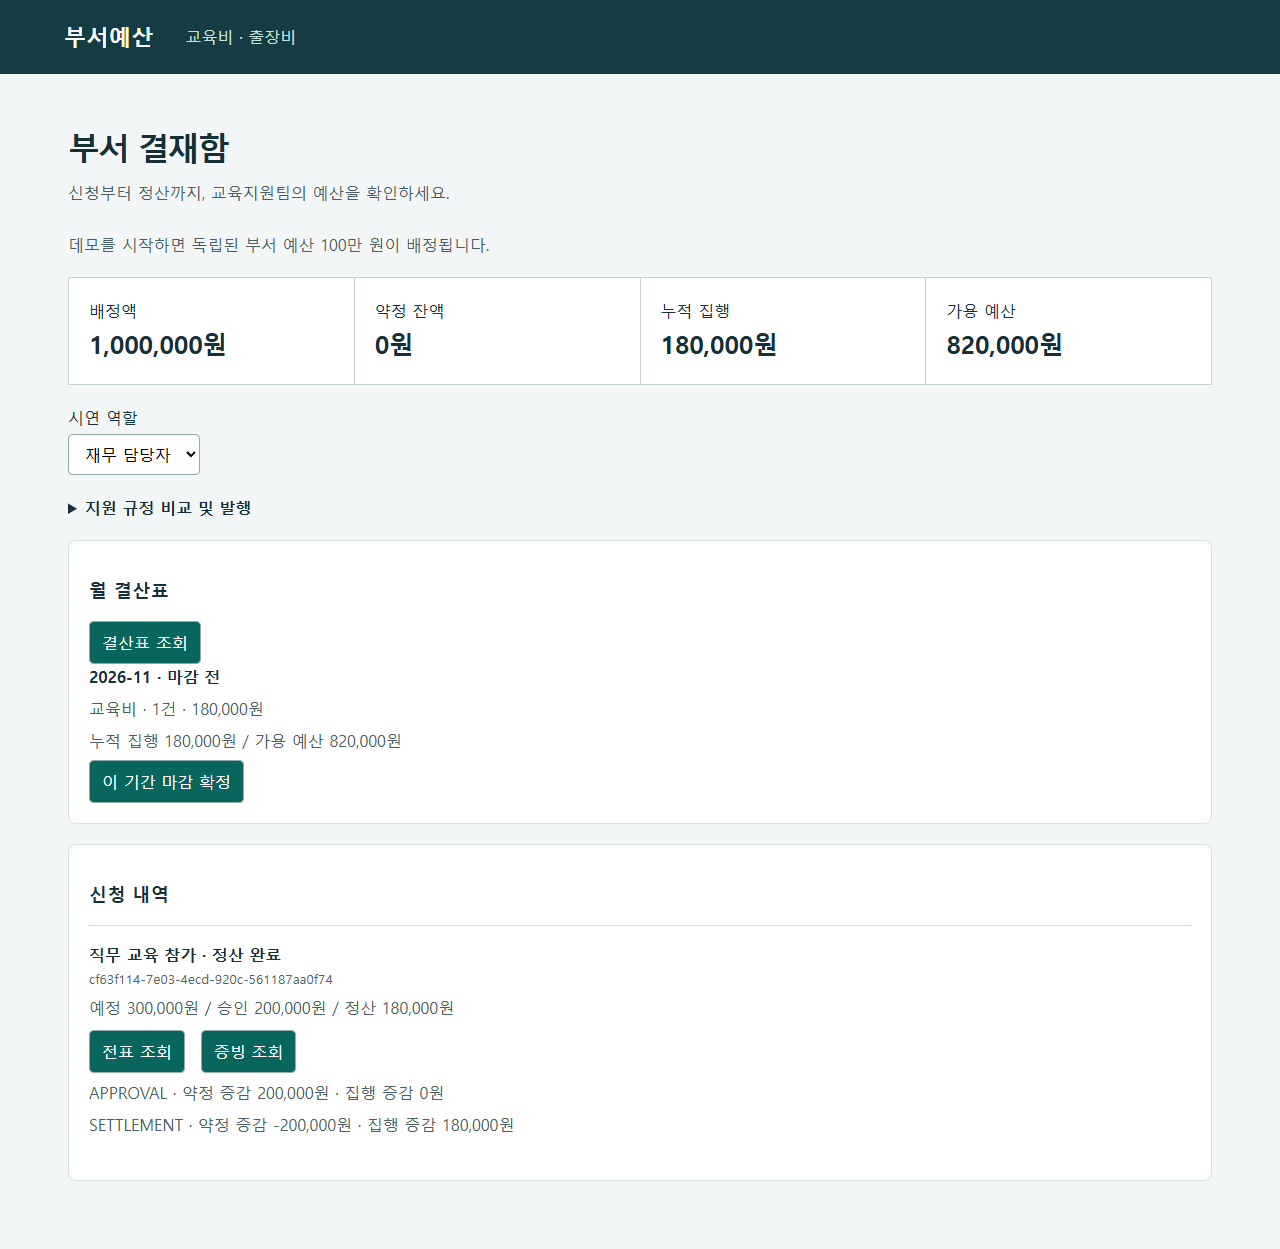
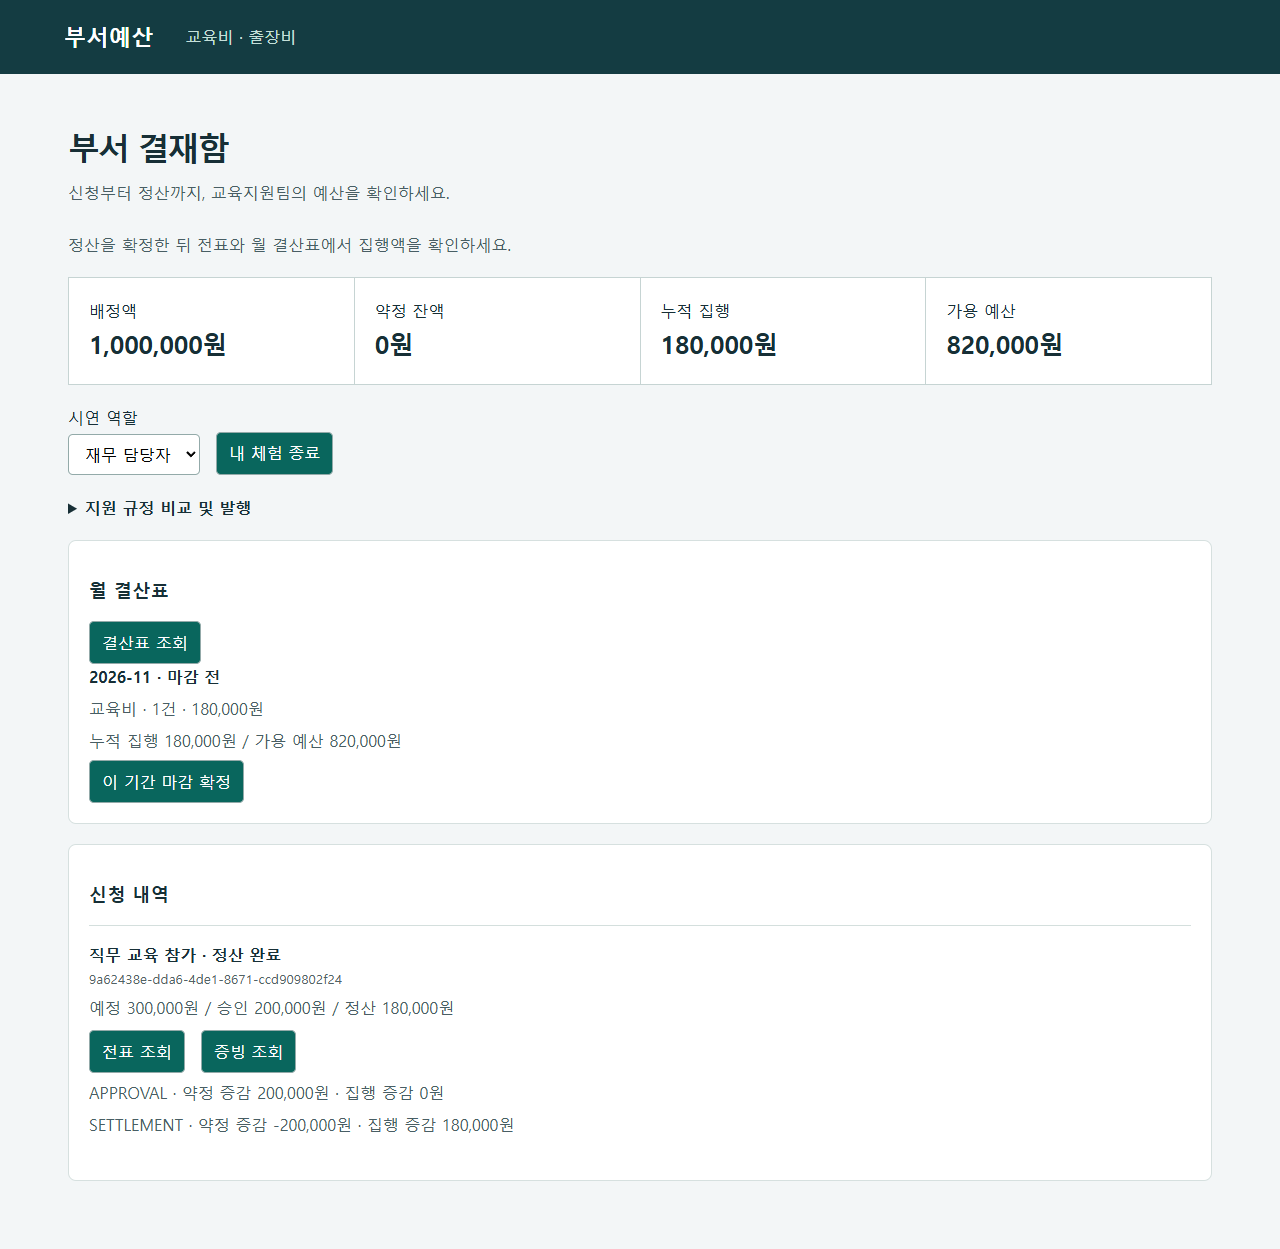
Add Isolated Demo Restart

Changed region(s): [[0.0625, 0.1873, 0.4062, 0.2186], [0.1562, 0.3435, 0.2812, 0.4059], [0.0625, 0.7806, 0.25, 0.8118]]

diff --git a/src/main/resources/static/assets/portal.js b/src/main/resources/static/assets/portal.js
@@ -5,6 +5,10 @@ const notice = message => $("#notice").text(message);
 const api = (path, data) => $.ajax({url:path, method:"POST", data, headers:{"X-CSRF-TOKEN":document.querySelector('meta[name="csrf-token"]').content}});
 const reportError = error => notice(({403:"현재 역할로 처리할 수 없습니다.",409:"신청 상태가 바뀌었습니다.",422:"금액과 가용 예산을 확인하세요."})[error.status] || "처리 결과를 확인할 수 없습니다. 화면을 새로 열어 확인하세요.");
 function render(state) {
+  const nextSteps = {EMPLOYEE:"교육비를 신청한 뒤 시연 역할을 부서장으로 바꾸세요. 약정 완료 후에는 실제 지출액으로 정산을 신청할 수 있습니다.",
+    MANAGER:"신청을 사전승인하면 약정액이 반영됩니다. 직원 역할에서 실제 지출을 제출하세요.",
+    FINANCE:"정산을 확정한 뒤 전표와 월 결산표에서 집행액을 확인하세요."};
+  notice(nextSteps[state.role]);
   $("#month-end").prop("hidden", state.role !== "FINANCE");
   $("#statement").empty();
   $("#close-period").prop("hidden",true);
@@ -88,6 +92,13 @@ $("#close-period").on("click",function() {
   api("/api/statement/close",{}).done(showStatement).fail(reportError).always(()=>$(this).prop("disabled",false));
 });
 $("#start").on("click",()=>api("/api/demo").then(render).fail(reportError));
+$("#end-demo").on("submit", event => {
+  if (!window.confirm("현재 체험을 종료할까요? 다음 체험은 새 예산 100만 원으로 시작합니다.")) {
+    event.preventDefault();
+    return;
+  }
+  sessionStorage.removeItem("pending-claim");
+});
 $("#role").on("change",event=>api("/api/demo/role",{role:event.target.value}).then(refresh).fail(reportError));
 $("#submit").on("submit",event=>{
   event.preventDefault();

diff --git a/frontend/tests/claims.spec.ts b/frontend/tests/claims.spec.ts
@@ -42,6 +42,16 @@ test("두 방문자가 별도 예산으로 교육비 신청과 월 결산을 체
     await other.reload();
     await expect(other.locator("#available")).toHaveText("1,000,000원");
     await expect(other.locator("#claims")).toHaveText("아직 신청한 비용이 없습니다.");
+    await other.locator('[name="title"]').fill("다른 방문자의 교육 신청");
+    await other.getByRole("button", { name: "신청 제출" }).click();
+    await expect(other.locator(".claim")).toContainText("다른 방문자의 교육 신청");
+    page.once("dialog", dialog => dialog.accept());
+    await page.getByRole("button", { name: "내 체험 종료" }).click();
+    await page.getByRole("button", { name: "개인 데모 시작" }).click();
+    await expect(page.locator("#available")).toHaveText("1,000,000원");
+    await expect(page.locator("#claims")).toHaveText("아직 신청한 비용이 없습니다.");
+    await other.reload();
+    await expect(other.locator(".claim")).toContainText("다른 방문자의 교육 신청");
   } finally {
     await second.close();
   }

diff --git a/docs/PROGRESS.md b/docs/PROGRESS.md
@@ -25,4 +25,4 @@
 - 최신 WAR 패키징 결과는 수식 11건, H2 원장 계약 8건, 실제 Tomcat HTTP 통합 1건 통과다. 동일한 원장 계약의 Oracle 시험 8건은 실행되지 않았다.
 - Chrome의 독립된 두 세션에서 교육비 30만 원을 신청한 방문자의 가용액 82만 원과 다른 방문자의 가용액 100만 원을 확인했다. 같은 신청의 전표와 결산표도 조회했다. [브라우저 시험](../frontend/tests/claims.spec.ts) · [실제 결산 화면](images/settlement.png)
 - b5c3bbd의 캐시 정책을 적용한 WAR는 Java 시험 21건 통과, Oracle 8건 미실행이다. Chrome 시험 2건 통과. [재방문 전송량 전후 원자료](measurements/README.md)에서 기준선, 앱 리비전, 실험 조건을 확인할 수 있다.
-- 다음 작업은 방문자 초기화의 브라우저 검증과 원장 철회·취소다. 실제 Oracle 시험·복원, PHP·MySQL 수신, 외부 HTTPS는 미검증이다.
+- Chrome 두 세션에서 첫 방문자의 체험을 종료한 뒤 새로 시작해 예산 100만 원과 빈 신청 목록을 확인했다. 두 번째 방문자의 교육 신청은 새로고침 후에도 남았다. 다음 작업은 승인 전 철회·승인 후 약정 취소의 원장 검증이다. 실제 Oracle 시험·복원, PHP·MySQL 수신, 외부 HTTPS는 미검증이다.
